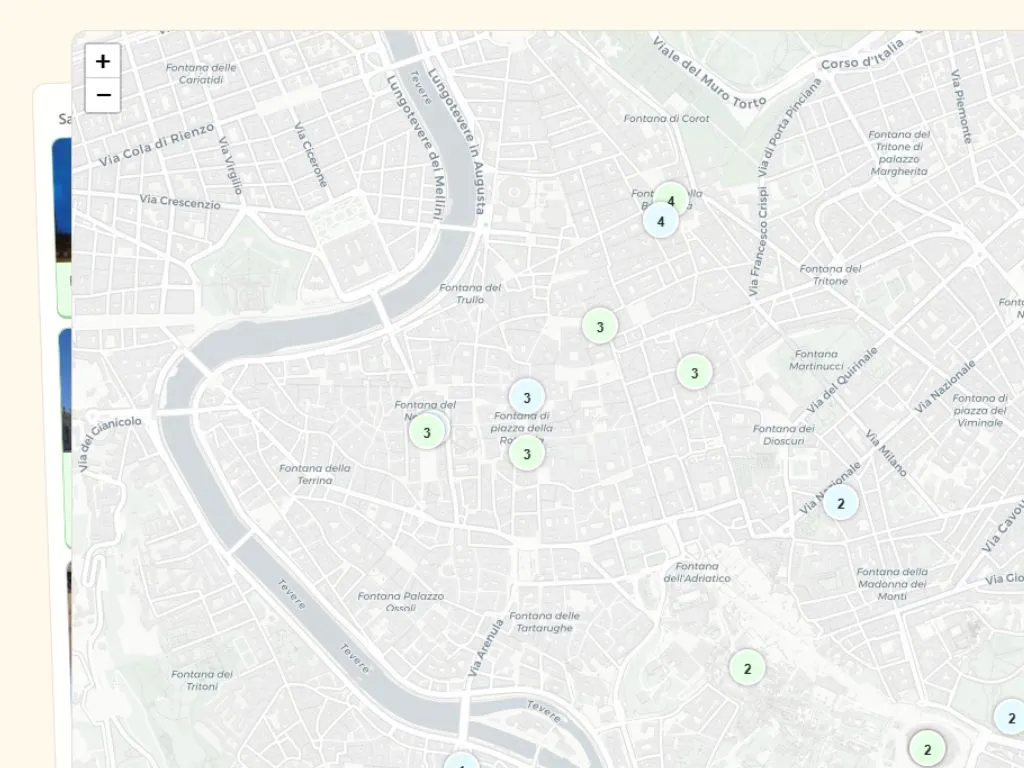
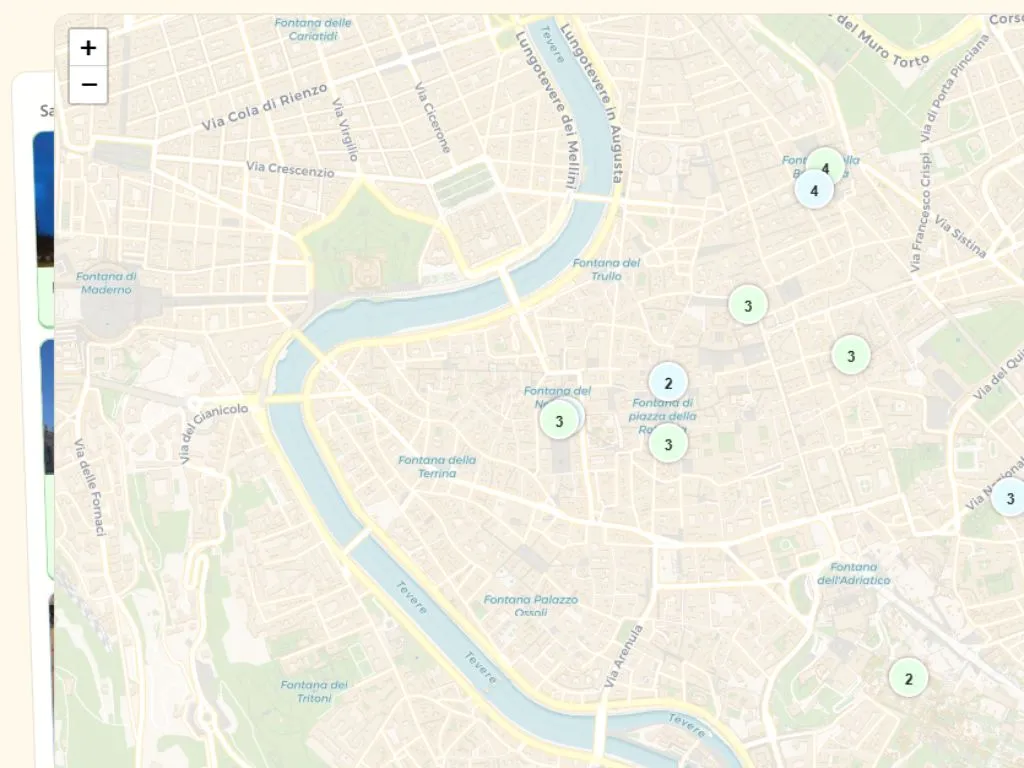
💄 Updante feature previews and copy

diff --git a/src/features/home/components/Hero.tsx b/src/features/home/components/Hero.tsx
@@ -1,40 +1,37 @@
 // src/features/home/components/Hero.tsx
 'use client';
 
-import Link from 'next/link';
 import Image from 'next/image';
-
-import { Button } from '@/shared/ui';
 import PlanForm from './PlanForm';
 
 export default function Hero() {
   return (
-    <section className="hero relative overflow-hidden p-8 pt-[184px] sm:pt-[92px] md:h-auto md:pt-24 lg:pt-28">
-      <div className="relative container flex flex-col pt-20">
-        <div className="relative z-10 flex flex-col-reverse items-center gap-10 lg:flex-row lg:items-start">
-          <div className="flex w-full items-start gap-4 sm:gap-6 md:gap-8 lg:gap-10">
-            <div className="flex-1 pb-[5dvh] lg:pb-[15dvh]">
-              <h1 className="font-title text-foreground pb-6 text-[32px] leading-[0.9] font-semibold tracking-tight sm:text-[40px] md:text-[56px] lg:text-[72px] xl:text-[84px]">
-                The App for
-                <br />
-                your travel.
-              </h1>
-              <p className="sm:text-15 mt-6 max-w-[705px] pb-4 text-lg leading-tight tracking-tight sm:mt-3 sm:max-w-lg lg:mt-5">
-                Escape the clutter and chaos. Organize and plan your adventure from anywhere.
-              </p>
-              <PlanForm />
-            </div>
+    <section className="relative overflow-hidden pt-24 sm:pt-28 lg:pt-32">
+      <div className="container mx-auto px-6">
+        <div className="grid items-center gap-10 lg:grid-cols-2 lg:gap-12">
+          {/* Coluna esquerda */}
+          <div className="flex w-full max-w-2xl flex-col items-center text-center lg:items-start lg:text-left">
+            <h1 className="mb-6 text-[48px] leading-[1.1] font-semibold tracking-tight md:text-[52px] lg:text-[56px]">
+              The App for
+              <br />
+              your travel.
+            </h1>
+            <p className="mb-6 text-lg md:text-xl">
+              Escape the clutter and chaos. Organize and plan your adventure from anywhere.
+            </p>
+            <PlanForm />
           </div>
-          {/* Mascot */}
-          <div className="absolute right-[10%] bottom-0 w-[40%] max-w-[280px] min-w-[100px] lg:right-[20%] lg:w-[36%] lg:max-w-[420px]">
+
+          {/* Coluna direita (Mascote) */}
+          <div className="flex w-full justify-center lg:justify-end">
             <Image
               src="/images/mascot_1_.webp"
               alt=""
-              role="presentation"
-              aria-hidden
+              aria-hidden="true"
               width={800}
               height={600}
-              className="h-auto w-full -scale-x-100 transform"
+              className="h-auto w-full max-w-[420px] -scale-x-100 select-none"
+              priority
             />
           </div>
         </div>

diff --git a/src/shared/hooks/ui/usePointerDragScroll.ts b/src/shared/hooks/ui/usePointerDragScroll.ts
@@ -14,6 +14,8 @@ export function usePointerDragScroll(
   const draggingRef = useRef(false);
   const startXRef = useRef(0);
   const startScrollRef = useRef(0);
+  const startIdxRef = useRef(0);
+  const overshootRef = useRef(0);
 
   useEffect(() => {
     const el = ref.current;
@@ -42,6 +44,9 @@ export function usePointerDragScroll(
       el.setPointerCapture?.(e.pointerId);
       startXRef.current = e.clientX;
       startScrollRef.current = el.scrollLeft;
+      startIdxRef.current = nearestIndex();
+      overshootRef.current = 0;
+      el.style.transform = '';
       el.classList.add('is-dragging');
       opts?.onDragStart?.();
     };
@@ -49,7 +54,20 @@ export function usePointerDragScroll(
     const move = (e: PointerEvent) => {
       if (!draggingRef.current) return;
       e.preventDefault();
-      el.scrollLeft = startScrollRef.current - (e.clientX - startXRef.current);
+      const delta = e.clientX - startXRef.current;
+      let next = startScrollRef.current - delta;
+      const max = el.scrollWidth - el.clientWidth;
+      if (next < 0 || next > max) {
+        const overshoot = next < 0 ? next : next - max;
+        // Move with the drag direction so the bounce feels natural.
+        overshootRef.current = -overshoot * 0.35;
+        el.style.transform = `translateX(${overshootRef.current}px)`;
+        next = next < 0 ? 0 : max;
+      } else {
+        overshootRef.current = 0;
+        el.style.transform = '';
+      }
+      el.scrollLeft = next;
       opts?.onScrollPreview?.(nearestIndex());
     };
 
@@ -61,8 +79,27 @@ export function usePointerDragScroll(
       } catch {}
       el.classList.remove('is-dragging');
 
-      const idx = nearestIndex();
-      scrollToChild(el, idx, { smooth: true, disableSnap: true });
+      if (overshootRef.current !== 0) {
+        el.style.transition = 'transform 200ms ease-out';
+        el.style.transform = 'translateX(0)';
+        const clear = () => {
+          el.style.transition = '';
+          el.removeEventListener('transitionend', clear);
+        };
+        el.addEventListener('transitionend', clear);
+      }
+
+      const delta = e.clientX - startXRef.current;
+      const threshold = 40;
+      const maxIdx = el.children.length - 1;
+      let idx = nearestIndex();
+
+      if (Math.abs(delta) > threshold) {
+        const direction = delta < 0 ? 1 : -1;
+        idx = Math.min(Math.max(startIdxRef.current + direction, 0), maxIdx);
+      }
+
+      scrollToChild(el, idx, { smooth: true, disableSnap: true, duration: 600 });
       opts?.onRelease?.(idx);
     };
 

diff --git a/src/features/home/components/InspirationLink.tsx b/src/features/home/components/InspirationLink.tsx
@@ -12,24 +12,30 @@ export default function InspirationLink() {
   ];
 
   return (
-    <section className="relative container overflow-hidden px-6 py-20">
-      <div className="relative mx-auto flex max-w-4xl flex-col items-center pb-4 text-center">
-        <h2 className="text-foreground pb-6 text-[32px] leading-[0.9] font-semibold tracking-tight sm:text-[40px] md:text-[56px] lg:text-[72px] xl:text-[84px]">
-          Trip Inspiration
-        </h2>
+    <section className="bg-card p-8 pt-40 sm:pt-16 md:pt-24 lg:pt-32">
+      <div className="container max-w-3xl sm:max-w-lg lg:max-w-[960px]">
+        <div className="relative mx-auto flex max-w-4xl flex-col items-center pb-4 text-center">
+          <h2 className="pb-6 text-[36px] leading-[1.1] font-semibold tracking-tight md:text-[42px]">
+            Be inspired by fellow travellers
+          </h2>
+          <p className="pb-4 text-xl">
+            Explore a curated list of other travellers trip itineraries and get inspired for your
+            next trip. If you like a trip, you can clone it and make it your own.
+          </p>
+        </div>
+        <ul className="mx-auto flex flex-wrap justify-center gap-6">
+          {destinations.map((d) => (
+            <li key={d.city}>
+              <Link
+                href={`/inspiration/${d.city}`}
+                className="block w-56 rounded-lg border bg-white p-6 text-center shadow-sm transition hover:shadow"
+              >
+                {d.label}
+              </Link>
+            </li>
+          ))}
+        </ul>
       </div>
-      <ul className="mx-auto flex flex-wrap justify-center gap-6">
-        {destinations.map((d) => (
-          <li key={d.city}>
-            <Link
-              href={`/inspiration/${d.city}`}
-              className="block w-56 rounded-lg border p-6 text-center shadow-sm transition hover:shadow"
-            >
-              {d.label}
-            </Link>
-          </li>
-        ))}
-      </ul>
     </section>
   );
 }

diff --git a/src/shared/utils/scrollToChild.ts b/src/shared/utils/scrollToChild.ts
@@ -3,9 +3,9 @@
 export function scrollToChild(
   el: HTMLUListElement,
   idx: number,
-  opts: { smooth?: boolean; disableSnap?: boolean } = {}
+  opts: { smooth?: boolean; disableSnap?: boolean; duration?: number } = {}
 ) {
-  const { smooth = true, disableSnap = true } = opts;
+  const { smooth = true, disableSnap = true, duration = 600 } = opts;
   const target = el.children[idx] as HTMLElement | undefined;
   if (!target) return;
   if (disableSnap) el.classList.add('no-snap');
@@ -19,22 +19,23 @@ export function scrollToChild(
   const max = el.scrollWidth - el.clientWidth;
   const left = Math.min(rawLeft, max);
 
-  el.scrollTo({ left, behavior: smooth ? 'smooth' : 'auto' });
-
-  if (disableSnap) {
-    let raf: number | null = null;
-    let last = -1;
-    const tick = () => {
-      const cur = el.scrollLeft;
-      if (Math.abs(cur - last) < 0.5) {
+  if (smooth) {
+    const start = el.scrollLeft;
+    const change = left - start;
+    const startTime = performance.now();
+    const step = (now: number) => {
+      const t = Math.min(1, (now - startTime) / duration);
+      const eased = t * (2 - t); // easeOutQuad
+      el.scrollLeft = start + change * eased;
+      if (t < 1) {
+        requestAnimationFrame(step);
+      } else if (disableSnap) {
         el.classList.remove('no-snap');
-        if (raf) cancelAnimationFrame(raf);
-        raf = null;
-        return;
       }
-      last = cur;
-      raf = requestAnimationFrame(tick);
     };
-    tick();
+    requestAnimationFrame(step);
+  } else {
+    el.scrollLeft = left;
+    if (disableSnap) el.classList.remove('no-snap');
   }
 }

diff --git a/src/features/home/components/feature-preview/FeaturePreview.tsx b/src/features/home/components/feature-preview/FeaturePreview.tsx
@@ -59,14 +59,17 @@ export default function FeaturePreview() {
 
   return (
     <section className="p-8 pt-40 sm:pt-16 md:pt-24 lg:pt-32">
-      <div className="container md:max-w-3xl lg:max-w-[960px]">
-        <h2 className="font-title text-foreground pb-6 text-[32px] leading-[0.9] font-semibold sm:text-[40px] md:text-[56px] lg:text-[72px] xl:text-[84px]">
-          What can you do?
-        </h2>
-        <p className="mt-6 max-w-[705px] leading-tight sm:mt-3 sm:max-w-lg lg:mt-5">
-          Turistar is a personal project focused on clean architecture, drag-and-drop logic, and
-          real-world UX.
-        </p>
+      <div className="container max-w-3xl sm:max-w-lg lg:max-w-[960px]">
+        <div className="max-w-[100%] md:max-w-[60%]">
+          <h2 className="pb-6 text-[36px] leading-[1.1] font-semibold tracking-tight md:text-[42px]">
+            Planner. Map. Budget.
+          </h2>
+          <p className="pb-4 text-xl">
+            Great trips start with a plan you can see, a map that makes sense, and a budget that
+            keeps choices real. Turistar brings these together so decisions are faster and planning
+            feels simple.
+          </p>
+        </div>
 
         <div className="mt-10 grid grid-cols-1 gap-8 md:grid-cols-3">
           {/* Cards */}
@@ -124,15 +127,17 @@ export default function FeaturePreview() {
             >
               {features.map((f, idx) => (
                 <li key={f.title} className="min-w-full shrink-0 basis-full snap-start">
-                  <div className="pointer-events-none select-none">
+                  <div className="select-none">
                     <Image
                       src={f.imgSrc}
                       alt=""
                       role="presentation"
                       width={1600}
                       height={900}
-                      className="block h-auto w-full rounded-xl object-contain"
+                      className="block h-auto w-full overflow-hidden rounded-xl object-contain"
                       priority={idx === activeIdx}
+                      draggable={false}
+                      onDragStart={(e) => e.preventDefault()}
                     />
                   </div>
                 </li>

diff --git a/src/features/home/components/feature-preview/data/features.ts b/src/features/home/components/feature-preview/data/features.ts
@@ -4,20 +4,21 @@ import type { Feature } from '../types';
 
 export const features: Feature[] = [
   {
-    title: 'Smart planning.',
+    title: 'Drag. Drop. Done.',
     description:
-      'Create a complete travel itinerary based on your selected dates - no templates, just flexibility.',
+      'Design each day in minutes. Add what matters, reorder quickly, and swap ideas in place. The board stays clean and fast, so the plan feels like yours.',
     imgSrc: '/images/home/feature_01.webp',
   },
   {
-    title: 'Interactive map view.',
-    description: 'See all your planned locations mapped out for better spatial awareness.',
+    title: 'See your trip on the map',
+    description:
+      'Preview stops by day and see distance at a glance. Routes are clear and reordering keeps context. Jump between pins and cards without losing your place.',
     imgSrc: '/images/home/feature_02.webp',
   },
   {
-    title: 'Budget tracking.',
+    title: 'Built in budget',
     description:
-      'Edit and manage your expenses in a dedicated panel - keep it organized, day by day.',
+      'Track costs as you plan. See running totals by day and for the whole trip. Adjust with confidence and stay within what you set.',
     imgSrc: '/images/home/feature_03.webp',
   },
 ];

diff --git a/src/features/home/components/feature-preview/FeatureCard.tsx b/src/features/home/components/feature-preview/FeatureCard.tsx
@@ -35,10 +35,10 @@ export default function FeatureCard({
   );
 
   const content = (
-    <p className="sm:text-15 leading-snug font-light md:leading-[1.2]">
-      <span className="font-medium">{feature.title} </span>
-      {feature.description}
-    </p>
+    <>
+      <h3 className="pb-4 text-xl font-medium md:leading-[1.2]">{feature.title}</h3>
+      <p>{feature.description}</p>
+    </>
   );
 
   return asButton ? (

diff --git a/src/features/home/components/feature-preview/NavDots.tsx b/src/features/home/components/feature-preview/NavDots.tsx
@@ -24,9 +24,7 @@ export default function NavDots({
             onClick={() => onSelect(i)}
             className={cn(
               'h-2 cursor-pointer rounded-full transition-[width] duration-200 ease-out',
-              active
-                ? 'w-[3.75rem] bg-[var(--muted-foreground)]'
-                : 'w-2 bg-[var(--card-foreground)]'
+              active ? 'w-[3.75rem] bg-[var(--secondary)]' : 'w-2 bg-[var(--card-foreground)]'
             )}
             aria-label={`Go to slide ${i + 1}`}
             aria-current={active ? 'true' : 'false'}